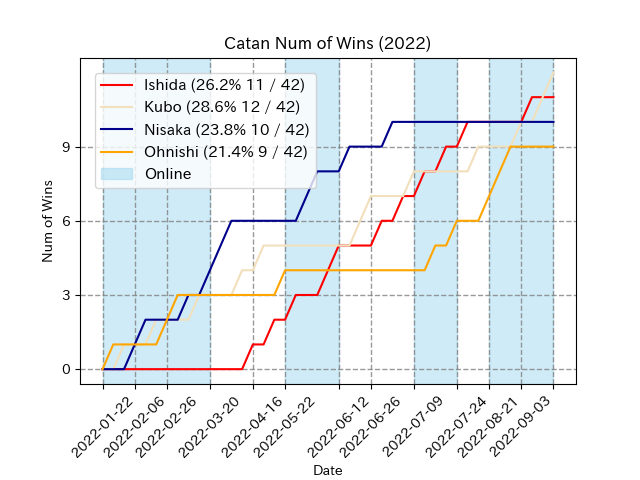
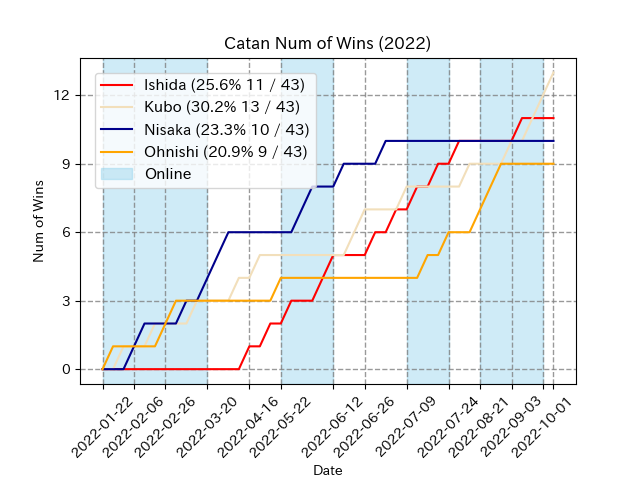
Update all record

diff --git a/record_2022.html b/record_2022.html
@@ -27,26 +27,26 @@
 <tr>
 <td align="right">1</td>
 <td align="left" class="Kubo">Kubo</td>
-<td align="right">12</td>
+<td align="right">13</td>
 <td align="right">30</td>
-<td align="right">42</td>
-<td align="right">.286</td>
+<td align="right">43</td>
+<td align="right">.302</td>
 <td align="left">-</td>
 <td align="left">-</td>
-<td align="left">6-17</td>
+<td align="left">7-18</td>
 <td align="left">6-25</td>
-<td align="right">4</td>
+<td align="right">5</td>
 </tr>
 <tr>
 <td align="right">2</td>
 <td align="left" class="Ishida">Ishida</td>
 <td align="right">11</td>
-<td align="right">31</td>
-<td align="right">42</td>
-<td align="right">.262</td>
-<td align="left">1</td>
-<td align="left">1</td>
-<td align="left">5-17</td>
+<td align="right">32</td>
+<td align="right">43</td>
+<td align="right">.256</td>
+<td align="left">2</td>
+<td align="left">2</td>
+<td align="left">5-18</td>
 <td align="left">6-25</td>
 <td align="right">2</td>
 </tr>
@@ -54,12 +54,12 @@
 <td align="right">3</td>
 <td align="left" class="Nisaka">Nisaka</td>
 <td align="right">10</td>
-<td align="right">32</td>
-<td align="right">42</td>
-<td align="right">.238</td>
+<td align="right">33</td>
+<td align="right">43</td>
+<td align="right">.233</td>
 <td align="left">1</td>
-<td align="left">2</td>
-<td align="left">4-17</td>
+<td align="left">3</td>
+<td align="left">4-18</td>
 <td align="left">6-25</td>
 <td align="right">0</td>
 </tr>
@@ -67,14 +67,14 @@
 <td align="right">4</td>
 <td align="left" class="Ohnishi">Ohnishi</td>
 <td align="right">9</td>
-<td align="right">33</td>
-<td align="right">42</td>
-<td align="right">.214</td>
+<td align="right">34</td>
+<td align="right">43</td>
+<td align="right">.209</td>
 <td align="left">1</td>
-<td align="left">3</td>
-<td align="left">2-17</td>
+<td align="left">4</td>
+<td align="left">2-18</td>
 <td align="left">7-25</td>
-<td align="right">4</td>
+<td align="right">3</td>
 </tr>
 </tbody>
 </table>
@@ -103,20 +103,20 @@
 </tr>
 <tr>
 <td align="right">1</td>
+<td align="left" class="Kubo">Kubo</td>
+<td align="right">3</td>
+<td align="left">2022-09-03_2</td>
+<td align="left">2022-10-01_1</td>
+</tr>
+<tr>
+<td align="right">1</td>
 <td align="left" class="Nisaka">Nisaka</td>
 <td align="right">3</td>
 <td align="left">2022-02-26_4</td>
 <td align="left">2022-03-20_2</td>
 </tr>
 <tr>
-<td align="right">3</td>
-<td align="left" class="Kubo">Kubo</td>
-<td align="right">2</td>
-<td align="left">2022-06-12_2</td>
-<td align="left">2022-06-12_3</td>
-</tr>
-<tr>
-<td align="right">3</td>
+<td align="right">4</td>
 <td align="left" class="Ishida">Ishida</td>
 <td align="right">2</td>
 <td align="left">2022-05-22_4</td>
@@ -138,9 +138,9 @@
 <tr>
 <td align="right">1</td>
 <td align="left" class="Nisaka">Nisaka</td>
-<td align="right">15</td>
+<td align="right">16</td>
 <td align="left">2022-06-26_3</td>
-<td align="left">2022-09-03_3</td>
+<td align="left">2022-10-01_1</td>
 </tr>
 <tr>
 <td align="right">2</td>
@@ -230,9 +230,9 @@
 <tr>
 <td align="right">2</td>
 <td align="left" class="Nisaka">Nisaka</td>
-<td align="right">5</td>
-<td align="left">2022-03-20_3</td>
-<td align="left">2022-04-16_3</td>
+<td align="right">6</td>
+<td align="left">2022-06-26_3</td>
+<td align="left">2022-10-01_1</td>
 </tr>
 <tr>
 <td align="right">3</td>

diff --git a/record_all.html b/record_all.html
@@ -27,39 +27,39 @@
 <tr>
 <td align="right">1</td>
 <td align="left" class="Kubo">Kubo</td>
-<td align="right">19</td>
+<td align="right">20</td>
 <td align="right">45</td>
-<td align="right">64</td>
-<td align="right">.297</td>
+<td align="right">65</td>
+<td align="right">.308</td>
 <td align="left">-</td>
 <td align="left">-</td>
-<td align="left">13-39</td>
+<td align="left">14-40</td>
 <td align="left">6-25</td>
-<td align="right">4</td>
+<td align="right">5</td>
 </tr>
 <tr>
 <td align="right">2</td>
 <td align="left" class="Ohnishi">Ohnishi</td>
 <td align="right">17</td>
-<td align="right">47</td>
-<td align="right">64</td>
-<td align="right">.266</td>
-<td align="left">2</td>
-<td align="left">2</td>
-<td align="left">10-39</td>
+<td align="right">48</td>
+<td align="right">65</td>
+<td align="right">.262</td>
+<td align="left">3</td>
+<td align="left">3</td>
+<td align="left">10-40</td>
 <td align="left">7-25</td>
-<td align="right">4</td>
+<td align="right">3</td>
 </tr>
 <tr>
 <td align="right">3</td>
 <td align="left" class="Nisaka">Nisaka</td>
 <td align="right">14</td>
-<td align="right">50</td>
-<td align="right">64</td>
-<td align="right">.219</td>
+<td align="right">51</td>
+<td align="right">65</td>
+<td align="right">.215</td>
 <td align="left">3</td>
-<td align="left">5</td>
-<td align="left">8-39</td>
+<td align="left">6</td>
+<td align="left">8-40</td>
 <td align="left">6-25</td>
 <td align="right">0</td>
 </tr>
@@ -67,12 +67,12 @@
 <td align="right">3</td>
 <td align="left" class="Ishida">Ishida</td>
 <td align="right">14</td>
-<td align="right">50</td>
-<td align="right">64</td>
-<td align="right">.219</td>
+<td align="right">51</td>
+<td align="right">65</td>
+<td align="right">.215</td>
 <td align="left">0</td>
-<td align="left">5</td>
-<td align="left">8-39</td>
+<td align="left">6</td>
+<td align="left">8-40</td>
 <td align="left">6-25</td>
 <td align="right">2</td>
 </tr>
@@ -109,18 +109,18 @@
 <td align="left">2022-03-20_2</td>
 </tr>
 <tr>
+<td align="right">1</td>
+<td align="left" class="Kubo">Kubo</td>
 <td align="right">3</td>
+<td align="left">2022-09-03_2</td>
+<td align="left">2022-10-01_1</td>
+</tr>
+<tr>
+<td align="right">4</td>
 <td align="left" class="Ishida">Ishida</td>
 <td align="right">2</td>
 <td align="left">2022-05-22_4</td>
 <td align="left">2022-05-22_5</td>
-</tr>
-<tr>
-<td align="right">3</td>
-<td align="left" class="Kubo">Kubo</td>
-<td align="right">2</td>
-<td align="left">2021-10-23_4</td>
-<td align="left">2021-11-06_1</td>
 </tr>
 </tbody>
 </table>
@@ -137,17 +137,17 @@
 <tbody>
 <tr>
 <td align="right">1</td>
+<td align="left" class="Nisaka">Nisaka</td>
+<td align="right">16</td>
+<td align="left">2022-06-26_3</td>
+<td align="left">2022-10-01_1</td>
+</tr>
+<tr>
+<td align="right">1</td>
 <td align="left" class="Ishida">Ishida</td>
 <td align="right">16</td>
 <td align="left">2021-10-02_1</td>
 <td align="left">2021-12-19_1</td>
-</tr>
-<tr>
-<td align="right">2</td>
-<td align="left" class="Nisaka">Nisaka</td>
-<td align="right">15</td>
-<td align="left">2022-06-26_3</td>
-<td align="left">2022-09-03_3</td>
 </tr>
 <tr>
 <td align="right">3</td>

diff --git a/record_2022.md b/record_2022.md
@@ -2,23 +2,23 @@
 ## 順位表
 |   順 | プレイヤー   |   勝 |   敗 |   試合 |    勝率 | 差   | 首位差   | 対面   | オンライン   |   直近10 |
 |----:|:--------|----:|----:|-----:|------:|:----|:------|:-----|:--------|-------:|
-|   1 | Kubo    |  12 |  30 |   42 | .286 | -   | -     | 6-17 | 6-25    |      4 |
-|   2 | Ishida  |  11 |  31 |   42 | .262 | 1   | 1     | 5-17 | 6-25    |      2 |
-|   3 | Nisaka  |  10 |  32 |   42 | .238 | 1   | 2     | 4-17 | 6-25    |      0 |
-|   4 | Ohnishi |   9 |  33 |   42 | .214 | 1   | 3     | 2-17 | 7-25    |      4 |
+|   1 | Kubo    |  13 |  30 |   43 | .302 | -   | -     | 7-18 | 6-25    |      5 |
+|   2 | Ishida  |  11 |  32 |   43 | .256 | 2   | 2     | 5-18 | 6-25    |      2 |
+|   3 | Nisaka  |  10 |  33 |   43 | .233 | 1   | 3     | 4-18 | 6-25    |      0 |
+|   4 | Ohnishi |   9 |  34 |   43 | .209 | 1   | 4     | 2-18 | 7-25    |      3 |
 ## 勝ち数推移
 ![graph](./wnums_2022.png)
 ### 記録（対面+オンライン）
 |   順 | 連勝      |   試合数 | 開始           | 終了           |
 |----:|:--------|------:|:-------------|:-------------|
 |   1 | Ohnishi |     3 | 2022-07-24_3 | 2022-08-21_2 |
+|   1 | Kubo    |     3 | 2022-09-03_2 | 2022-10-01_1 |
 |   1 | Nisaka  |     3 | 2022-02-26_4 | 2022-03-20_2 |
-|   3 | Kubo    |     2 | 2022-06-12_2 | 2022-06-12_3 |
-|   3 | Ishida  |     2 | 2022-05-22_4 | 2022-05-22_5 |  
+|   4 | Ishida  |     2 | 2022-05-22_4 | 2022-05-22_5 |  
 
 |   順 | 連敗      |   試合数 | 開始           | 終了           |
 |----:|:--------|------:|:-------------|:-------------|
-|   1 | Nisaka  |    15 | 2022-06-26_3 | 2022-09-03_3 |
+|   1 | Nisaka  |    16 | 2022-06-26_3 | 2022-10-01_1 |
 |   2 | Ohnishi |    13 | 2022-05-22_1 | 2022-07-09_1 |
 |   2 | Ishida  |    13 | 2022-01-22_1 | 2022-03-20_3 |
 |   4 | Kubo    |     8 | 2022-04-16_2 | 2022-06-12_1 |
@@ -33,7 +33,7 @@
 |   順 | 連敗      |   試合数 | 開始           | 終了           |
 |----:|:--------|------:|:-------------|:-------------|
 |   1 | Ohnishi |     9 | 2022-06-12_1 | 2022-07-24_2 |
-|   2 | Nisaka  |     5 | 2022-03-20_3 | 2022-04-16_3 |
+|   2 | Nisaka  |     6 | 2022-06-26_3 | 2022-10-01_1 |
 |   3 | Ishida  |     4 | 2022-04-16_3 | 2022-06-12_3 |
 |   4 | Kubo    |     3 | 2022-04-16_2 | 2022-06-12_1 |
 ### 記録（オンライン）

diff --git a/record_all.md b/record_all.md
@@ -2,10 +2,10 @@
 ## 順位表
 |   順 | プレイヤー   |   勝 |   敗 |   試合 |    勝率 | 差   | 首位差   | 対面    | オンライン   |   直近10 |
 |----:|:--------|----:|----:|-----:|------:|:----|:------|:------|:--------|-------:|
-|   1 | Kubo    |  19 |  45 |   64 | .297 | -   | -     | 13-39 | 6-25    |      4 |
-|   2 | Ohnishi |  17 |  47 |   64 | .266 | 2   | 2     | 10-39 | 7-25    |      4 |
-|   3 | Nisaka  |  14 |  50 |   64 | .219 | 3   | 5     | 8-39  | 6-25    |      0 |
-|   3 | Ishida  |  14 |  50 |   64 | .219 | 0   | 5     | 8-39  | 6-25    |      2 |
+|   1 | Kubo    |  20 |  45 |   65 | .308 | -   | -     | 14-40 | 6-25    |      5 |
+|   2 | Ohnishi |  17 |  48 |   65 | .262 | 3   | 3     | 10-40 | 7-25    |      3 |
+|   3 | Nisaka  |  14 |  51 |   65 | .215 | 3   | 6     | 8-40  | 6-25    |      0 |
+|   3 | Ishida  |  14 |  51 |   65 | .215 | 0   | 6     | 8-40  | 6-25    |      2 |
 ## 勝ち数推移
 ![graph](./wnums_all.png)
 ### 記録（対面+オンライン）
@@ -13,13 +13,13 @@
 |----:|:--------|------:|:-------------|:-------------|
 |   1 | Ohnishi |     3 | 2022-07-24_3 | 2022-08-21_2 |
 |   1 | Nisaka  |     3 | 2022-02-26_4 | 2022-03-20_2 |
-|   3 | Ishida  |     2 | 2022-05-22_4 | 2022-05-22_5 |
-|   3 | Kubo    |     2 | 2021-10-23_4 | 2021-11-06_1 |  
+|   1 | Kubo    |     3 | 2022-09-03_2 | 2022-10-01_1 |
+|   4 | Ishida  |     2 | 2022-05-22_4 | 2022-05-22_5 |  
 
 |   順 | 連敗      |   試合数 | 開始           | 終了           |
 |----:|:--------|------:|:-------------|:-------------|
+|   1 | Nisaka  |    16 | 2022-06-26_3 | 2022-10-01_1 |
 |   1 | Ishida  |    16 | 2021-10-02_1 | 2021-12-19_1 |
-|   2 | Nisaka  |    15 | 2022-06-26_3 | 2022-09-03_3 |
 |   3 | Ohnishi |    13 | 2022-05-22_1 | 2022-07-09_1 |
 |   4 | Kubo    |     8 | 2022-04-16_2 | 2022-06-12_1 |
 ### 記録（対面）
